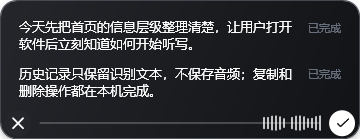
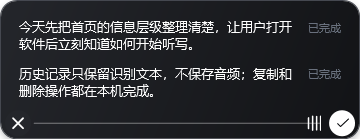
fix(overlay): 降低录音波形滚动速度并保持平滑移动
每三个音量采样合并为一根波形柱并保留峰值，将滚动速度降至原来的约三分之一。使用连续位移动画衔接更新，避免每 150 毫秒跳动；隐藏或重置浮窗时清除动画状态。

将关闭按钮与波形的左侧间距从 8 缩至 2，扩大显示区域，并同步演示预填充和产品截图。

diff --git a/src/LocalAsrClient.App/Overlay/DictationOverlayWindow.xaml b/src/LocalAsrClient.App/Overlay/DictationOverlayWindow.xaml
@@ -299,7 +299,7 @@
                 <overlay:RecordingWaveform x:Name="RecordingWaveformView"
                                            Grid.Column="1"
                                            Height="18"
-                                           Margin="8,0"
+                                           Margin="2,0,8,0"
                                            HorizontalAlignment="Stretch"
                                            VerticalAlignment="Center"
                                            WaveformBrush="{StaticResource LessAsr.Brush.OverlayForeground}"/>

diff --git a/src/LocalAsrClient.App/Overlay/RecordingWaveform.cs b/src/LocalAsrClient.App/Overlay/RecordingWaveform.cs
@@ -1,5 +1,6 @@
 using System.Windows;
 using System.Windows.Media;
+using System.Windows.Media.Animation;
 using System.Windows.Threading;
 using Brush = System.Windows.Media.Brush;
 using Brushes = System.Windows.Media.Brushes;
@@ -10,7 +11,14 @@ namespace LocalAsrClient.App.Overlay;
 
 internal sealed class RecordingWaveform : FrameworkElement
 {
+    internal const int InputLevelsPerBar = 3;
     private const double PreferredBarSpacing = 4;
+    private static readonly TimeSpan ScrollDuration = TimeSpan.FromMilliseconds(150);
+    private static readonly DependencyProperty ScrollOffsetProperty = DependencyProperty.Register(
+        "ScrollOffset",
+        typeof(double),
+        typeof(RecordingWaveform),
+        new FrameworkPropertyMetadata(0d, FrameworkPropertyMetadataOptions.AffectsRender));
 
     public static readonly DependencyProperty WaveformBrushProperty = DependencyProperty.Register(
         nameof(WaveformBrush),
@@ -19,12 +27,21 @@ internal sealed class RecordingWaveform : FrameworkElement
         new FrameworkPropertyMetadata(Brushes.White, FrameworkPropertyMetadataOptions.AffectsRender));
 
     private readonly WaveformHistory _history = new();
+    private int _pendingLevelCount;
+    private float _pendingPeak;
 
     public RecordingWaveform()
     {
         IsHitTestVisible = false;
-        SnapsToDevicePixels = true;
+        SnapsToDevicePixels = false;
         UseLayoutRounding = true;
+        IsVisibleChanged += (_, _) =>
+        {
+            if (!IsVisible)
+            {
+                ResetScroll();
+            }
+        };
     }
 
     public Brush WaveformBrush
@@ -33,7 +50,7 @@ internal sealed class RecordingWaveform : FrameworkElement
         set => SetValue(WaveformBrushProperty, value);
     }
 
-    public void PushLevel(float level)
+    public void PushLevel(float level, bool animate = true)
     {
         if (!Dispatcher.CheckAccess())
         {
@@ -41,13 +58,36 @@ internal sealed class RecordingWaveform : FrameworkElement
             {
                 _ = Dispatcher.BeginInvoke(
                     DispatcherPriority.Render,
-                    () => PushLevel(level));
+                    () => PushLevel(level, animate));
             }
 
             return;
         }
 
-        _history.Push(level);
+        // Combine three 50 ms audio updates into one bar without losing brief peaks.
+        _pendingPeak = Math.Max(_pendingPeak, Math.Clamp(level, 0, 1));
+        if (++_pendingLevelCount < InputLevelsPerBar)
+        {
+            return;
+        }
+
+        _history.Push(_pendingPeak);
+        _pendingLevelCount = 0;
+        _pendingPeak = 0;
+        if (animate && IsVisible)
+        {
+            // Keep the existing bars at their current positions when history shifts,
+            // then move continuously between audio updates at WPF's rendering cadence.
+            var offset = (double)GetValue(ScrollOffsetProperty);
+            BeginAnimation(ScrollOffsetProperty, null);
+            SetValue(ScrollOffsetProperty, offset + 1);
+            BeginAnimation(ScrollOffsetProperty, new DoubleAnimation(offset + 1, 0, ScrollDuration));
+        }
+        else
+        {
+            ResetScroll();
+        }
+
         InvalidateVisual();
     }
 
@@ -64,7 +104,16 @@ internal sealed class RecordingWaveform : FrameworkElement
         }
 
         _history.Reset();
+        _pendingLevelCount = 0;
+        _pendingPeak = 0;
+        ResetScroll();
         InvalidateVisual();
+    }
+
+    private void ResetScroll()
+    {
+        BeginAnimation(ScrollOffsetProperty, null);
+        SetValue(ScrollOffsetProperty, 0d);
     }
 
     protected override void OnRender(DrawingContext drawingContext)
@@ -94,10 +143,14 @@ internal sealed class RecordingWaveform : FrameworkElement
             samples.Count);
         var firstVisibleIndex = samples.Count - visibleBarCount;
         var spacing = visibleBarCount > 1 ? (right - left) / (visibleBarCount - 1) : 0;
+        var scrollOffset = (double)GetValue(ScrollOffsetProperty);
         var maximumHalfHeight = Math.Max(1, Math.Min(8, (ActualHeight - 2) / 2));
         var barPen = CreatePen(WaveformBrush, 1.5);
 
-        for (var visibleIndex = 0; visibleIndex < visibleBarCount; visibleIndex++)
+        drawingContext.PushClip(new RectangleGeometry(new Rect(0, 0, ActualWidth, ActualHeight)));
+        // Include bars just outside the left edge so they exit smoothly as well.
+        var firstDrawnIndex = Math.Max(-firstVisibleIndex, -(int)Math.Ceiling(scrollOffset));
+        for (var visibleIndex = firstDrawnIndex; visibleIndex < visibleBarCount; visibleIndex++)
         {
             var level = samples[firstVisibleIndex + visibleIndex];
             if (level <= 0)
@@ -106,12 +159,14 @@ internal sealed class RecordingWaveform : FrameworkElement
             }
 
             var halfHeight = 1 + (Math.Pow(level, 0.72) * (maximumHalfHeight - 1));
-            var x = left + (visibleIndex * spacing);
+            var x = left + ((visibleIndex + scrollOffset) * spacing);
             drawingContext.DrawLine(
                 barPen,
                 new Point(x, centerY - halfHeight),
                 new Point(x, centerY + halfHeight));
         }
+
+        drawingContext.Pop();
     }
 
     private static Pen CreatePen(Brush brush, double thickness)

diff --git a/src/LocalAsrClient.App/Overlay/DictationOverlayWindow.xaml.cs b/src/LocalAsrClient.App/Overlay/DictationOverlayWindow.xaml.cs
@@ -83,9 +83,9 @@ public partial class DictationOverlayWindow : Window
     {
         ShowOverlay(OverlayState.Recording, "聆听中");
         _waveformPreview.Reset();
-        for (var index = 0; index < WaveformHistory.DefaultBarCount; index++)
+        for (var index = 0; index < WaveformHistory.DefaultBarCount * RecordingWaveform.InputLevelsPerBar; index++)
         {
-            RecordingWaveformView.PushLevel(_waveformPreview.NextLevel());
+            RecordingWaveformView.PushLevel(_waveformPreview.NextLevel(), animate: false);
         }
 
         _waveformPreviewTimer = new System.Windows.Threading.DispatcherTimer(
